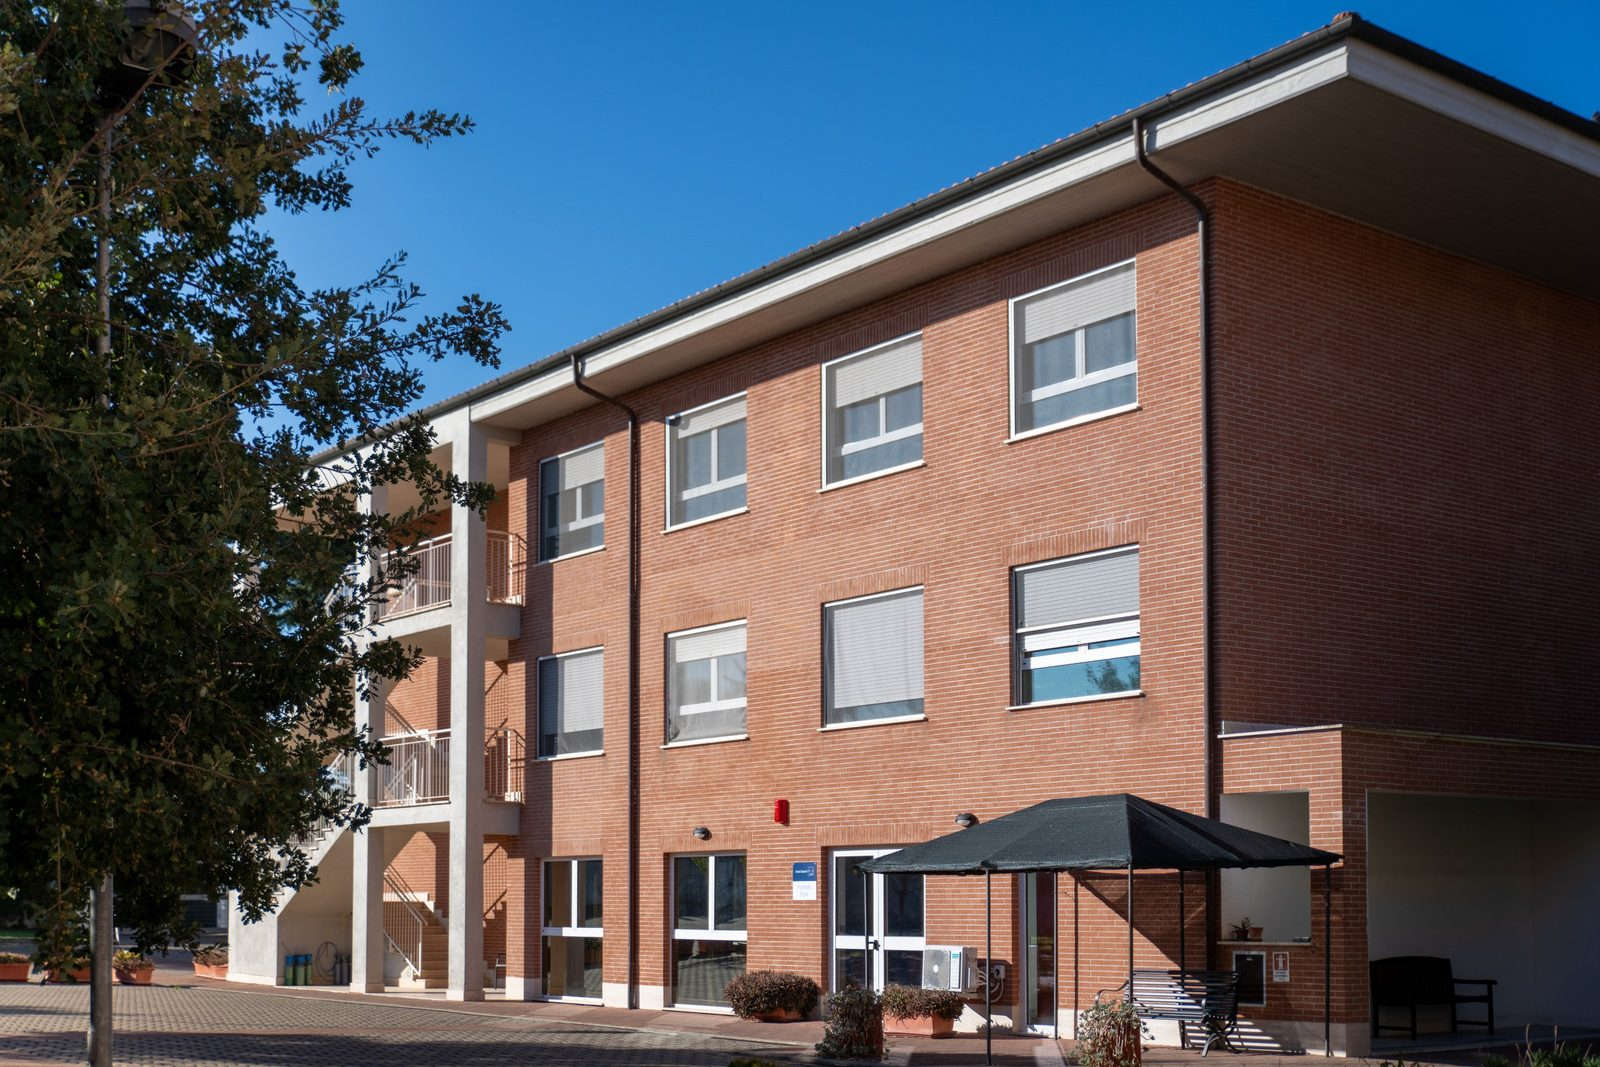
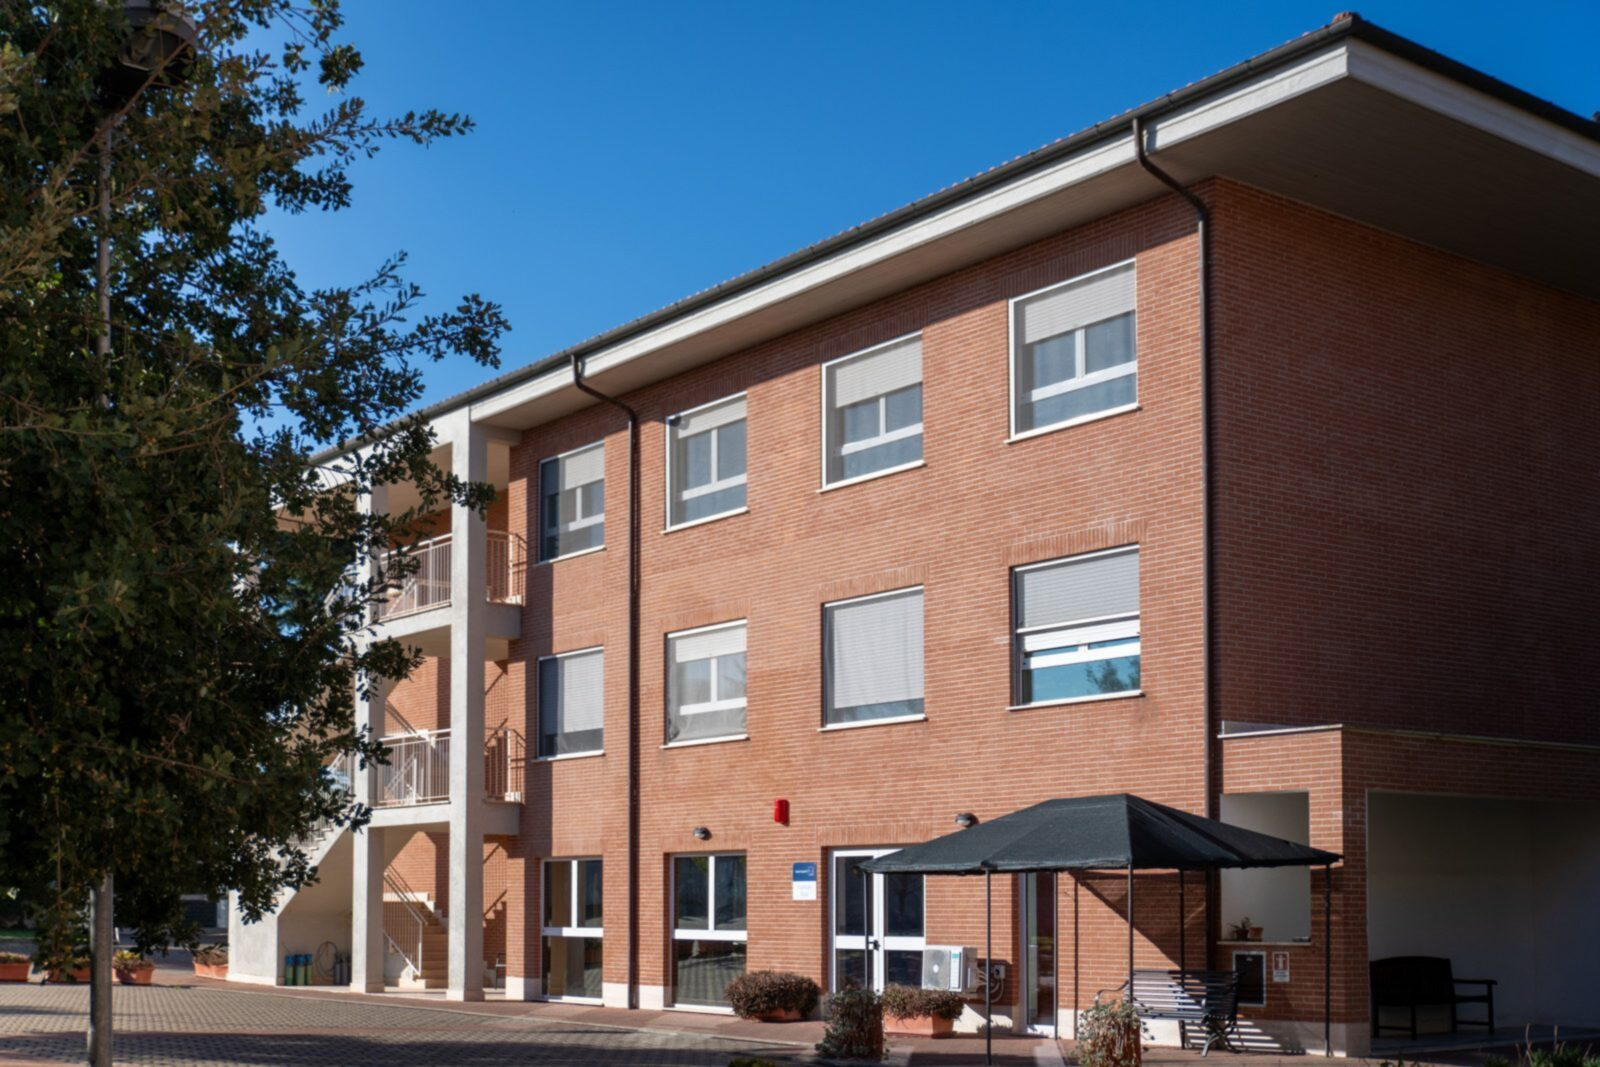
Extra kos-aa-parco-di-veio: galleria della RSA più leggera, foto ricompresse
Carosello mobile con caricamento differito dalla seconda cella e sizes 100vw;
finestra delle foto in caricamento differito, sizes sul modal-xl, rimisura
all'apertura. Foto esterne della RSA ammorbidite (σ 0,7); 01-esterno e
02-ingresso-ambulatori del poliambulatorio riesportati a circa 110 KB.

diff --git a/anniazzurri/elements/chunks/gal-residenza-anni-azzurri-parco-di-veio.html b/anniazzurri/elements/chunks/gal-residenza-anni-azzurri-parco-di-veio.html
@@ -17,21 +17,21 @@
     <div class="row d-lg-none pb-5">
       <div class="col-12">
         <div class="photo-carousel" data-flickity='{ "cellAlign": "left", "contain": true, "adaptiveHeight": true, "prevNextButtons": false, "imagesLoaded": true }'>
-          <div class="carousel-cell d-flex justify-content-center w-100 px-0">[[immagine? &src=`/assets/img/strutture/[[*alias]]/esterno-cortile.jpg` &alt=`Residenza Anni Azzurri Parco di Veio: gli edifici in mattoni sul cortile` &class=`img-fluid` &sizes=`naturale` &differita=`0`]]</div>
-          <div class="carousel-cell d-flex justify-content-center w-100 px-0">[[immagine? &src=`/assets/img/strutture/[[*alias]]/esterno.jpg` &alt=`Residenza Anni Azzurri Parco di Veio: facciata dell’edificio della residenza` &class=`img-fluid` &sizes=`naturale` &differita=`0`]]</div>
-          <div class="carousel-cell d-flex justify-content-center w-100 px-0">[[immagine? &src=`/assets/img/strutture/[[*alias]]/cortile-pergolato.jpg` &alt=`Residenza Anni Azzurri Parco di Veio: il cortile con il pergolato e il giardino` &class=`img-fluid` &sizes=`naturale` &differita=`0`]]</div>
-          <div class="carousel-cell d-flex justify-content-center w-100 px-0">[[immagine? &src=`/assets/img/strutture/[[*alias]]/esterno-giardino.jpg` &alt=`Residenza Anni Azzurri Parco di Veio: l’edificio e gli alberi del giardino` &class=`img-fluid` &sizes=`naturale` &differita=`0`]]</div>
-          <div class="carousel-cell d-flex justify-content-center w-100 px-0">[[immagine? &src=`/assets/img/strutture/[[*alias]]/ingresso.jpg` &alt=`Residenza Anni Azzurri Parco di Veio: l’ingresso con la pensilina` &class=`img-fluid` &sizes=`naturale` &differita=`0`]]</div>
-          <div class="carousel-cell d-flex justify-content-center w-100 px-0">[[immagine? &src=`/assets/img/strutture/[[*alias]]/segnaletica-ingressi.jpg` &alt=`Residenza Anni Azzurri Parco di Veio: cartello degli ingressi A e B e dei parcheggi` &class=`img-fluid` &sizes=`naturale` &differita=`0`]]</div>
-          <div class="carousel-cell d-flex justify-content-center w-100 px-0">[[immagine? &src=`/assets/img/strutture/[[*alias]]/ingresso-giardino.jpg` &alt=`Residenza Anni Azzurri Parco di Veio: ospiti nel giardino visti dalle porte vetrate dell’ingresso` &class=`img-fluid` &sizes=`naturale` &differita=`0`]]</div>
-          <div class="carousel-cell d-flex justify-content-center w-100 px-0">[[immagine? &src=`/assets/img/strutture/[[*alias]]/soggiorno.jpg` &alt=`Residenza Anni Azzurri Parco di Veio: il soggiorno con tavoli, libreria e porte sul giardino` &class=`img-fluid` &sizes=`naturale` &differita=`0`]]</div>
-          <div class="carousel-cell d-flex justify-content-center w-100 px-0">[[immagine? &src=`/assets/img/strutture/[[*alias]]/sala.jpg` &alt=`Residenza Anni Azzurri Parco di Veio: sala con tavoli e libreria` &class=`img-fluid` &sizes=`naturale` &differita=`0`]]</div>
-          <div class="carousel-cell d-flex justify-content-center w-100 px-0">[[immagine? &src=`/assets/img/strutture/[[*alias]]/camera-1.jpg` &alt=`Residenza Anni Azzurri Parco di Veio: camera con letto attrezzato e finestra sul verde` &class=`img-fluid` &sizes=`naturale` &differita=`0`]]</div>
-          <div class="carousel-cell d-flex justify-content-center w-100 px-0">[[immagine? &src=`/assets/img/strutture/[[*alias]]/camera-2.jpg` &alt=`Residenza Anni Azzurri Parco di Veio: camera con letto, comodino e bagno` &class=`img-fluid` &sizes=`naturale` &differita=`0`]]</div>
-          <div class="carousel-cell d-flex justify-content-center w-100 px-0">[[immagine? &src=`/assets/img/strutture/[[*alias]]/camera-3.jpg` &alt=`Residenza Anni Azzurri Parco di Veio: letto attrezzato in camera` &class=`img-fluid` &sizes=`naturale` &differita=`0`]]</div>
-          <div class="carousel-cell d-flex justify-content-center w-100 px-0">[[immagine? &src=`/assets/img/strutture/[[*alias]]/camera-armadi.jpg` &alt=`Residenza Anni Azzurri Parco di Veio: armadi e scrivania della camera` &class=`img-fluid` &sizes=`naturale` &differita=`0`]]</div>
-          <div class="carousel-cell d-flex justify-content-center w-100 px-0">[[immagine? &src=`/assets/img/strutture/[[*alias]]/camera-dettaglio.jpg` &alt=`Residenza Anni Azzurri Parco di Veio: comodino e pulsantiera del letto` &class=`img-fluid` &sizes=`naturale` &differita=`0`]]</div>
-          <div class="carousel-cell d-flex justify-content-center w-100 px-0">[[immagine? &src=`/assets/img/strutture/[[*alias]]/bagno.jpg` &alt=`Residenza Anni Azzurri Parco di Veio: bagno attrezzato con maniglioni e doccia` &class=`img-fluid` &sizes=`naturale` &differita=`0`]]</div>
+          <div class="carousel-cell d-flex justify-content-center w-100 px-0">[[immagine? &src=`/assets/img/strutture/[[*alias]]/esterno-cortile.jpg` &alt=`Residenza Anni Azzurri Parco di Veio: gli edifici in mattoni sul cortile` &class=`img-fluid` &sizes=`100vw` &differita=`0`]]</div>
+          <div class="carousel-cell d-flex justify-content-center w-100 px-0">[[immagine? &src=`/assets/img/strutture/[[*alias]]/esterno.jpg` &alt=`Residenza Anni Azzurri Parco di Veio: facciata dell’edificio della residenza` &class=`img-fluid` &sizes=`100vw` &differita=`1`]]</div>
+          <div class="carousel-cell d-flex justify-content-center w-100 px-0">[[immagine? &src=`/assets/img/strutture/[[*alias]]/cortile-pergolato.jpg` &alt=`Residenza Anni Azzurri Parco di Veio: il cortile con il pergolato e il giardino` &class=`img-fluid` &sizes=`100vw` &differita=`1`]]</div>
+          <div class="carousel-cell d-flex justify-content-center w-100 px-0">[[immagine? &src=`/assets/img/strutture/[[*alias]]/esterno-giardino.jpg` &alt=`Residenza Anni Azzurri Parco di Veio: l’edificio e gli alberi del giardino` &class=`img-fluid` &sizes=`100vw` &differita=`1`]]</div>
+          <div class="carousel-cell d-flex justify-content-center w-100 px-0">[[immagine? &src=`/assets/img/strutture/[[*alias]]/ingresso.jpg` &alt=`Residenza Anni Azzurri Parco di Veio: l’ingresso con la pensilina` &class=`img-fluid` &sizes=`100vw` &differita=`1`]]</div>
+          <div class="carousel-cell d-flex justify-content-center w-100 px-0">[[immagine? &src=`/assets/img/strutture/[[*alias]]/segnaletica-ingressi.jpg` &alt=`Residenza Anni Azzurri Parco di Veio: cartello degli ingressi A e B e dei parcheggi` &class=`img-fluid` &sizes=`100vw` &differita=`1`]]</div>
+          <div class="carousel-cell d-flex justify-content-center w-100 px-0">[[immagine? &src=`/assets/img/strutture/[[*alias]]/ingresso-giardino.jpg` &alt=`Residenza Anni Azzurri Parco di Veio: ospiti nel giardino visti dalle porte vetrate dell’ingresso` &class=`img-fluid` &sizes=`100vw` &differita=`1`]]</div>
+          <div class="carousel-cell d-flex justify-content-center w-100 px-0">[[immagine? &src=`/assets/img/strutture/[[*alias]]/soggiorno.jpg` &alt=`Residenza Anni Azzurri Parco di Veio: il soggiorno con tavoli, libreria e porte sul giardino` &class=`img-fluid` &sizes=`100vw` &differita=`1`]]</div>
+          <div class="carousel-cell d-flex justify-content-center w-100 px-0">[[immagine? &src=`/assets/img/strutture/[[*alias]]/sala.jpg` &alt=`Residenza Anni Azzurri Parco di Veio: sala con tavoli e libreria` &class=`img-fluid` &sizes=`100vw` &differita=`1`]]</div>
+          <div class="carousel-cell d-flex justify-content-center w-100 px-0">[[immagine? &src=`/assets/img/strutture/[[*alias]]/camera-1.jpg` &alt=`Residenza Anni Azzurri Parco di Veio: camera con letto attrezzato e finestra sul verde` &class=`img-fluid` &sizes=`100vw` &differita=`1`]]</div>
+          <div class="carousel-cell d-flex justify-content-center w-100 px-0">[[immagine? &src=`/assets/img/strutture/[[*alias]]/camera-2.jpg` &alt=`Residenza Anni Azzurri Parco di Veio: camera con letto, comodino e bagno` &class=`img-fluid` &sizes=`100vw` &differita=`1`]]</div>
+          <div class="carousel-cell d-flex justify-content-center w-100 px-0">[[immagine? &src=`/assets/img/strutture/[[*alias]]/camera-3.jpg` &alt=`Residenza Anni Azzurri Parco di Veio: letto attrezzato in camera` &class=`img-fluid` &sizes=`100vw` &differita=`1`]]</div>
+          <div class="carousel-cell d-flex justify-content-center w-100 px-0">[[immagine? &src=`/assets/img/strutture/[[*alias]]/camera-armadi.jpg` &alt=`Residenza Anni Azzurri Parco di Veio: armadi e scrivania della camera` &class=`img-fluid` &sizes=`100vw` &differita=`1`]]</div>
+          <div class="carousel-cell d-flex justify-content-center w-100 px-0">[[immagine? &src=`/assets/img/strutture/[[*alias]]/camera-dettaglio.jpg` &alt=`Residenza Anni Azzurri Parco di Veio: comodino e pulsantiera del letto` &class=`img-fluid` &sizes=`100vw` &differita=`1`]]</div>
+          <div class="carousel-cell d-flex justify-content-center w-100 px-0">[[immagine? &src=`/assets/img/strutture/[[*alias]]/bagno.jpg` &alt=`Residenza Anni Azzurri Parco di Veio: bagno attrezzato con maniglioni e doccia` &class=`img-fluid` &sizes=`100vw` &differita=`1`]]</div>
         </div>
       </div>
     </div>
@@ -44,21 +44,21 @@
           </div>
           <div class="modal-body mb-4">
             <div class="photo-carousel" data-flickity='{ "cellAlign": "left", "contain": true, "adaptiveHeight": true, "prevNextButtons": true, "imagesLoaded": true }'>
-          <div class="carousel-cell d-flex justify-content-center w-100 px-0">[[immagine? &src=`/assets/img/strutture/[[*alias]]/esterno-cortile.jpg` &alt=`Residenza Anni Azzurri Parco di Veio: gli edifici in mattoni sul cortile` &class=`img-fluid` &sizes=`naturale` &differita=`0`]]</div>
-          <div class="carousel-cell d-flex justify-content-center w-100 px-0">[[immagine? &src=`/assets/img/strutture/[[*alias]]/esterno.jpg` &alt=`Residenza Anni Azzurri Parco di Veio: facciata dell’edificio della residenza` &class=`img-fluid` &sizes=`naturale` &differita=`0`]]</div>
-          <div class="carousel-cell d-flex justify-content-center w-100 px-0">[[immagine? &src=`/assets/img/strutture/[[*alias]]/cortile-pergolato.jpg` &alt=`Residenza Anni Azzurri Parco di Veio: il cortile con il pergolato e il giardino` &class=`img-fluid` &sizes=`naturale` &differita=`0`]]</div>
-          <div class="carousel-cell d-flex justify-content-center w-100 px-0">[[immagine? &src=`/assets/img/strutture/[[*alias]]/esterno-giardino.jpg` &alt=`Residenza Anni Azzurri Parco di Veio: l’edificio e gli alberi del giardino` &class=`img-fluid` &sizes=`naturale` &differita=`0`]]</div>
-          <div class="carousel-cell d-flex justify-content-center w-100 px-0">[[immagine? &src=`/assets/img/strutture/[[*alias]]/ingresso.jpg` &alt=`Residenza Anni Azzurri Parco di Veio: l’ingresso con la pensilina` &class=`img-fluid` &sizes=`naturale` &differita=`0`]]</div>
-          <div class="carousel-cell d-flex justify-content-center w-100 px-0">[[immagine? &src=`/assets/img/strutture/[[*alias]]/segnaletica-ingressi.jpg` &alt=`Residenza Anni Azzurri Parco di Veio: cartello degli ingressi A e B e dei parcheggi` &class=`img-fluid` &sizes=`naturale` &differita=`0`]]</div>
-          <div class="carousel-cell d-flex justify-content-center w-100 px-0">[[immagine? &src=`/assets/img/strutture/[[*alias]]/ingresso-giardino.jpg` &alt=`Residenza Anni Azzurri Parco di Veio: ospiti nel giardino visti dalle porte vetrate dell’ingresso` &class=`img-fluid` &sizes=`naturale` &differita=`0`]]</div>
-          <div class="carousel-cell d-flex justify-content-center w-100 px-0">[[immagine? &src=`/assets/img/strutture/[[*alias]]/soggiorno.jpg` &alt=`Residenza Anni Azzurri Parco di Veio: il soggiorno con tavoli, libreria e porte sul giardino` &class=`img-fluid` &sizes=`naturale` &differita=`0`]]</div>
-          <div class="carousel-cell d-flex justify-content-center w-100 px-0">[[immagine? &src=`/assets/img/strutture/[[*alias]]/sala.jpg` &alt=`Residenza Anni Azzurri Parco di Veio: sala con tavoli e libreria` &class=`img-fluid` &sizes=`naturale` &differita=`0`]]</div>
-          <div class="carousel-cell d-flex justify-content-center w-100 px-0">[[immagine? &src=`/assets/img/strutture/[[*alias]]/camera-1.jpg` &alt=`Residenza Anni Azzurri Parco di Veio: camera con letto attrezzato e finestra sul verde` &class=`img-fluid` &sizes=`naturale` &differita=`0`]]</div>
-          <div class="carousel-cell d-flex justify-content-center w-100 px-0">[[immagine? &src=`/assets/img/strutture/[[*alias]]/camera-2.jpg` &alt=`Residenza Anni Azzurri Parco di Veio: camera con letto, comodino e bagno` &class=`img-fluid` &sizes=`naturale` &differita=`0`]]</div>
-          <div class="carousel-cell d-flex justify-content-center w-100 px-0">[[immagine? &src=`/assets/img/strutture/[[*alias]]/camera-3.jpg` &alt=`Residenza Anni Azzurri Parco di Veio: letto attrezzato in camera` &class=`img-fluid` &sizes=`naturale` &differita=`0`]]</div>
-          <div class="carousel-cell d-flex justify-content-center w-100 px-0">[[immagine? &src=`/assets/img/strutture/[[*alias]]/camera-armadi.jpg` &alt=`Residenza Anni Azzurri Parco di Veio: armadi e scrivania della camera` &class=`img-fluid` &sizes=`naturale` &differita=`0`]]</div>
-          <div class="carousel-cell d-flex justify-content-center w-100 px-0">[[immagine? &src=`/assets/img/strutture/[[*alias]]/camera-dettaglio.jpg` &alt=`Residenza Anni Azzurri Parco di Veio: comodino e pulsantiera del letto` &class=`img-fluid` &sizes=`naturale` &differita=`0`]]</div>
-          <div class="carousel-cell d-flex justify-content-center w-100 px-0">[[immagine? &src=`/assets/img/strutture/[[*alias]]/bagno.jpg` &alt=`Residenza Anni Azzurri Parco di Veio: bagno attrezzato con maniglioni e doccia` &class=`img-fluid` &sizes=`naturale` &differita=`0`]]</div>
+          <div class="carousel-cell d-flex justify-content-center w-100 px-0">[[immagine? &src=`/assets/img/strutture/[[*alias]]/esterno-cortile.jpg` &alt=`Residenza Anni Azzurri Parco di Veio: gli edifici in mattoni sul cortile` &class=`img-fluid` &sizes=`(min-width: 1200px) 1108px, (min-width: 992px) 768px, (min-width: 576px) 468px, 100vw` &differita=`1`]]</div>
+          <div class="carousel-cell d-flex justify-content-center w-100 px-0">[[immagine? &src=`/assets/img/strutture/[[*alias]]/esterno.jpg` &alt=`Residenza Anni Azzurri Parco di Veio: facciata dell’edificio della residenza` &class=`img-fluid` &sizes=`(min-width: 1200px) 1108px, (min-width: 992px) 768px, (min-width: 576px) 468px, 100vw` &differita=`1`]]</div>
+          <div class="carousel-cell d-flex justify-content-center w-100 px-0">[[immagine? &src=`/assets/img/strutture/[[*alias]]/cortile-pergolato.jpg` &alt=`Residenza Anni Azzurri Parco di Veio: il cortile con il pergolato e il giardino` &class=`img-fluid` &sizes=`(min-width: 1200px) 1108px, (min-width: 992px) 768px, (min-width: 576px) 468px, 100vw` &differita=`1`]]</div>
+          <div class="carousel-cell d-flex justify-content-center w-100 px-0">[[immagine? &src=`/assets/img/strutture/[[*alias]]/esterno-giardino.jpg` &alt=`Residenza Anni Azzurri Parco di Veio: l’edificio e gli alberi del giardino` &class=`img-fluid` &sizes=`(min-width: 1200px) 1108px, (min-width: 992px) 768px, (min-width: 576px) 468px, 100vw` &differita=`1`]]</div>
+          <div class="carousel-cell d-flex justify-content-center w-100 px-0">[[immagine? &src=`/assets/img/strutture/[[*alias]]/ingresso.jpg` &alt=`Residenza Anni Azzurri Parco di Veio: l’ingresso con la pensilina` &class=`img-fluid` &sizes=`(min-width: 1200px) 1108px, (min-width: 992px) 768px, (min-width: 576px) 468px, 100vw` &differita=`1`]]</div>
+          <div class="carousel-cell d-flex justify-content-center w-100 px-0">[[immagine? &src=`/assets/img/strutture/[[*alias]]/segnaletica-ingressi.jpg` &alt=`Residenza Anni Azzurri Parco di Veio: cartello degli ingressi A e B e dei parcheggi` &class=`img-fluid` &sizes=`(min-width: 1200px) 1108px, (min-width: 992px) 768px, (min-width: 576px) 468px, 100vw` &differita=`1`]]</div>
+          <div class="carousel-cell d-flex justify-content-center w-100 px-0">[[immagine? &src=`/assets/img/strutture/[[*alias]]/ingresso-giardino.jpg` &alt=`Residenza Anni Azzurri Parco di Veio: ospiti nel giardino visti dalle porte vetrate dell’ingresso` &class=`img-fluid` &sizes=`(min-width: 1200px) 1108px, (min-width: 992px) 768px, (min-width: 576px) 468px, 100vw` &differita=`1`]]</div>
+          <div class="carousel-cell d-flex justify-content-center w-100 px-0">[[immagine? &src=`/assets/img/strutture/[[*alias]]/soggiorno.jpg` &alt=`Residenza Anni Azzurri Parco di Veio: il soggiorno con tavoli, libreria e porte sul giardino` &class=`img-fluid` &sizes=`(min-width: 1200px) 1108px, (min-width: 992px) 768px, (min-width: 576px) 468px, 100vw` &differita=`1`]]</div>
+          <div class="carousel-cell d-flex justify-content-center w-100 px-0">[[immagine? &src=`/assets/img/strutture/[[*alias]]/sala.jpg` &alt=`Residenza Anni Azzurri Parco di Veio: sala con tavoli e libreria` &class=`img-fluid` &sizes=`(min-width: 1200px) 1108px, (min-width: 992px) 768px, (min-width: 576px) 468px, 100vw` &differita=`1`]]</div>
+          <div class="carousel-cell d-flex justify-content-center w-100 px-0">[[immagine? &src=`/assets/img/strutture/[[*alias]]/camera-1.jpg` &alt=`Residenza Anni Azzurri Parco di Veio: camera con letto attrezzato e finestra sul verde` &class=`img-fluid` &sizes=`(min-width: 1200px) 1108px, (min-width: 992px) 768px, (min-width: 576px) 468px, 100vw` &differita=`1`]]</div>
+          <div class="carousel-cell d-flex justify-content-center w-100 px-0">[[immagine? &src=`/assets/img/strutture/[[*alias]]/camera-2.jpg` &alt=`Residenza Anni Azzurri Parco di Veio: camera con letto, comodino e bagno` &class=`img-fluid` &sizes=`(min-width: 1200px) 1108px, (min-width: 992px) 768px, (min-width: 576px) 468px, 100vw` &differita=`1`]]</div>
+          <div class="carousel-cell d-flex justify-content-center w-100 px-0">[[immagine? &src=`/assets/img/strutture/[[*alias]]/camera-3.jpg` &alt=`Residenza Anni Azzurri Parco di Veio: letto attrezzato in camera` &class=`img-fluid` &sizes=`(min-width: 1200px) 1108px, (min-width: 992px) 768px, (min-width: 576px) 468px, 100vw` &differita=`1`]]</div>
+          <div class="carousel-cell d-flex justify-content-center w-100 px-0">[[immagine? &src=`/assets/img/strutture/[[*alias]]/camera-armadi.jpg` &alt=`Residenza Anni Azzurri Parco di Veio: armadi e scrivania della camera` &class=`img-fluid` &sizes=`(min-width: 1200px) 1108px, (min-width: 992px) 768px, (min-width: 576px) 468px, 100vw` &differita=`1`]]</div>
+          <div class="carousel-cell d-flex justify-content-center w-100 px-0">[[immagine? &src=`/assets/img/strutture/[[*alias]]/camera-dettaglio.jpg` &alt=`Residenza Anni Azzurri Parco di Veio: comodino e pulsantiera del letto` &class=`img-fluid` &sizes=`(min-width: 1200px) 1108px, (min-width: 992px) 768px, (min-width: 576px) 468px, 100vw` &differita=`1`]]</div>
+          <div class="carousel-cell d-flex justify-content-center w-100 px-0">[[immagine? &src=`/assets/img/strutture/[[*alias]]/bagno.jpg` &alt=`Residenza Anni Azzurri Parco di Veio: bagno attrezzato con maniglioni e doccia` &class=`img-fluid` &sizes=`(min-width: 1200px) 1108px, (min-width: 992px) 768px, (min-width: 576px) 468px, 100vw` &differita=`1`]]</div>
             </div>
           </div>
         </div>
@@ -68,10 +68,13 @@
 
   <hr>
 <script>/* kos-seo-geo: rimisura i caroselli delle foto quando sono caricate (AA-1) */
-window.addEventListener('load', function () {
-  document.querySelectorAll('.photo-carousel').forEach(function (el) {
+function kosRimisura(radice) {
+  radice.querySelectorAll('.photo-carousel').forEach(function (el) {
     var f = window.Flickity && Flickity.data(el);
     if (f) f.resize();
   });
-});
+}
+window.addEventListener('load', function () { kosRimisura(document); });
+/* la finestra «guarda tutte le foto» è nascosta all'avvio: le foto (caricamento differito) si misurano all'apertura */
+document.addEventListener('shown.bs.modal', function (ev) { if (ev.target.id === 'photo-modal') kosRimisura(ev.target); });
 </script>

diff --git a/extra/kos-aa-parco-di-veio/README.md b/extra/kos-aa-parco-di-veio/README.md
@@ -45,6 +45,23 @@ cita ancora si ferma (`--forza` per procedere comunque).
   descrittivi al posto di «[[*pagetitle]], foto N». Le foto vecchie restano nella cartella (non più citate): niente
   `aa/svuota.txt`, perché il controllo delle citazioni le troverebbe nel chunk prima della sua sostituzione.
 
+## Peso delle immagini (2/11)
+
+Misura in produzione (Chrome, 1920 px, DPR 2): 2,3 MB di immagini al primo caricamento, di cui 1,99 MB sono le 15 foto
+della galleria nella variante WebP 1600, caricate anche da desktop: carosello mobile (nascosto da `d-lg-none`) e
+finestra «guarda tutte le foto» avevano tutte `&differita=`0``.
+
+- Chunk: nel carosello mobile solo la prima cella con `&differita=`0`` e `&sizes=`100vw`` (su telefono equivale a
+  `naturale`, che diventa 1600 px solo sopra i 1600 px di finestra); nella finestra tutte le foto in caricamento differito,
+  `sizes` sulla larghezza del `modal-xl` (1108/768/468 px) e rimisura di Flickity all'apertura (`shown.bs.modal`). Le 15
+  foto hanno lo stesso formato (1600 × 1067): `adaptiveHeight` non cambia altezza, e `width`/`height` riservano lo spazio
+  anche prima del caricamento.
+- RSA, foto esterne (esterno-cortile, esterno, cortile-pergolato, esterno-giardino, ingresso-giardino): sfocatura
+  gaussiana σ 0,7 e JPG 82; WebP stimate (q80) 1200: da 102-181 a 81-130 KB, 1600: da 157-311 a 113-188 KB.
+- Poliambulatorio: 01-esterno (scatto 7209) e 02-ingresso-ambulatori (7503) riesportati dagli originali, 1280 × 853,
+  σ 0,6, JPG 64 progressivo: da 199 e 183 KB a 112 e 111 KB (sotto i 150 KB dall'originale servirebbe una qualità
+  troppo bassa senza ammorbidire).
+
 ## Testata della pagina RSA
 
 `/assets/img/rsa/residenza-anni-azzurri-parco-di-veio.jpg` (template `rsa`, snippet `immagine`, `object-fit: cover`): edificio
